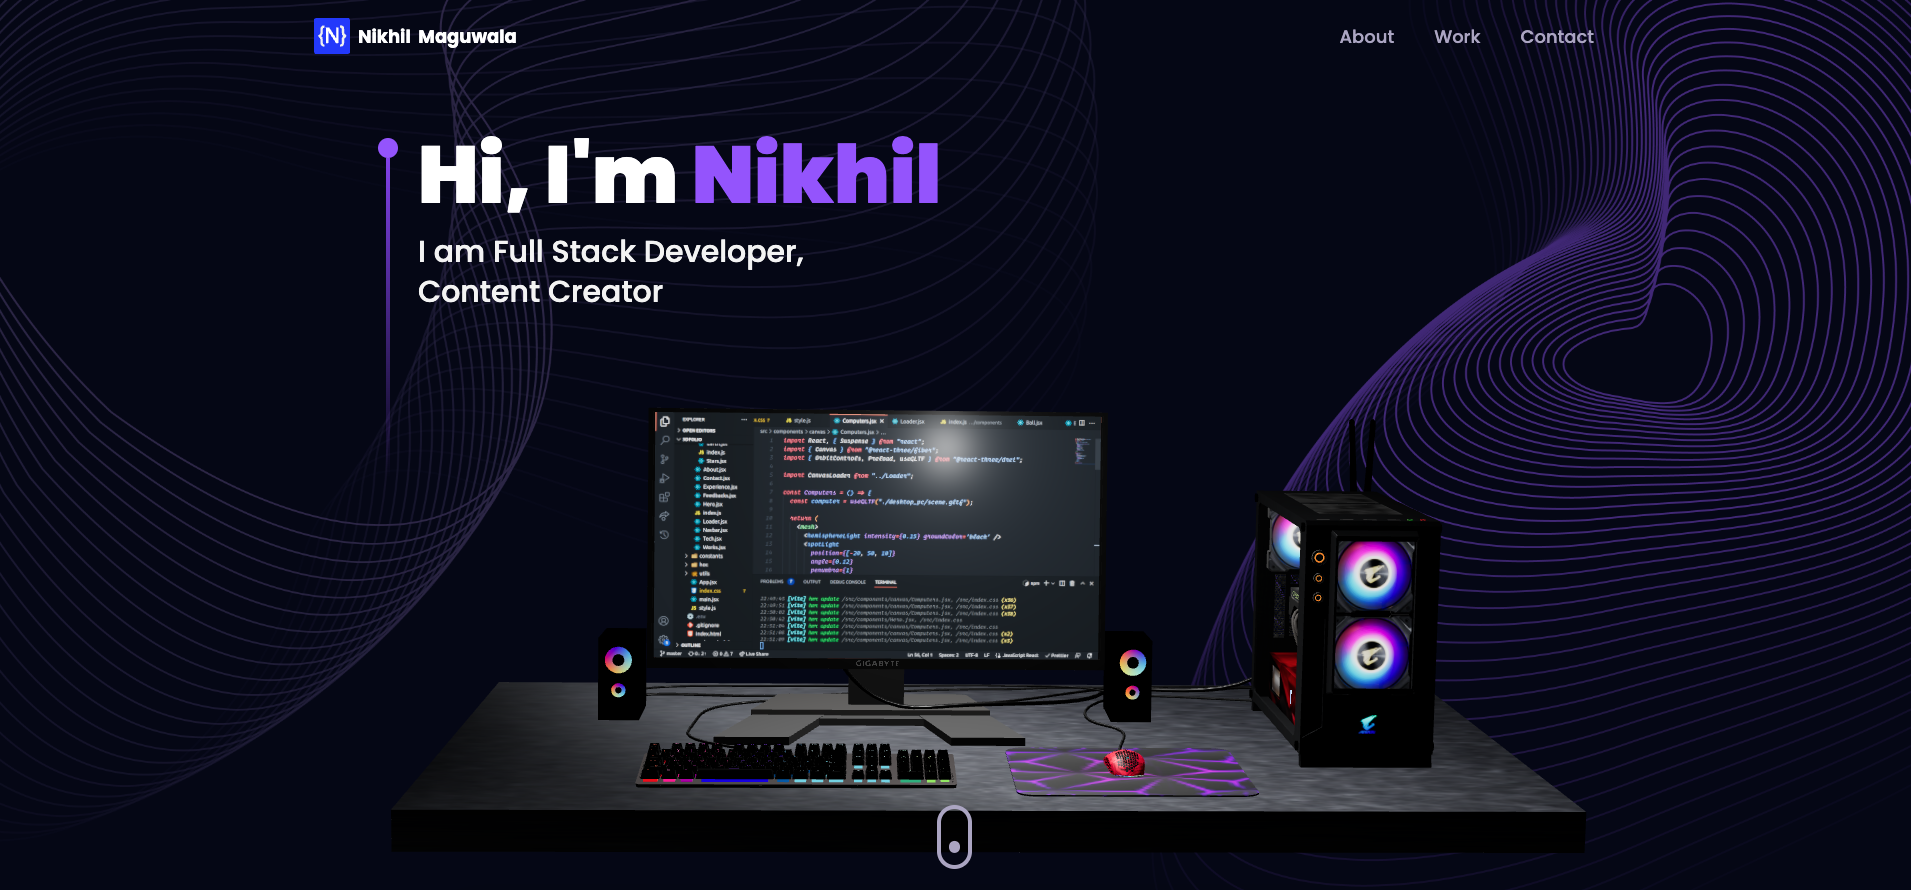
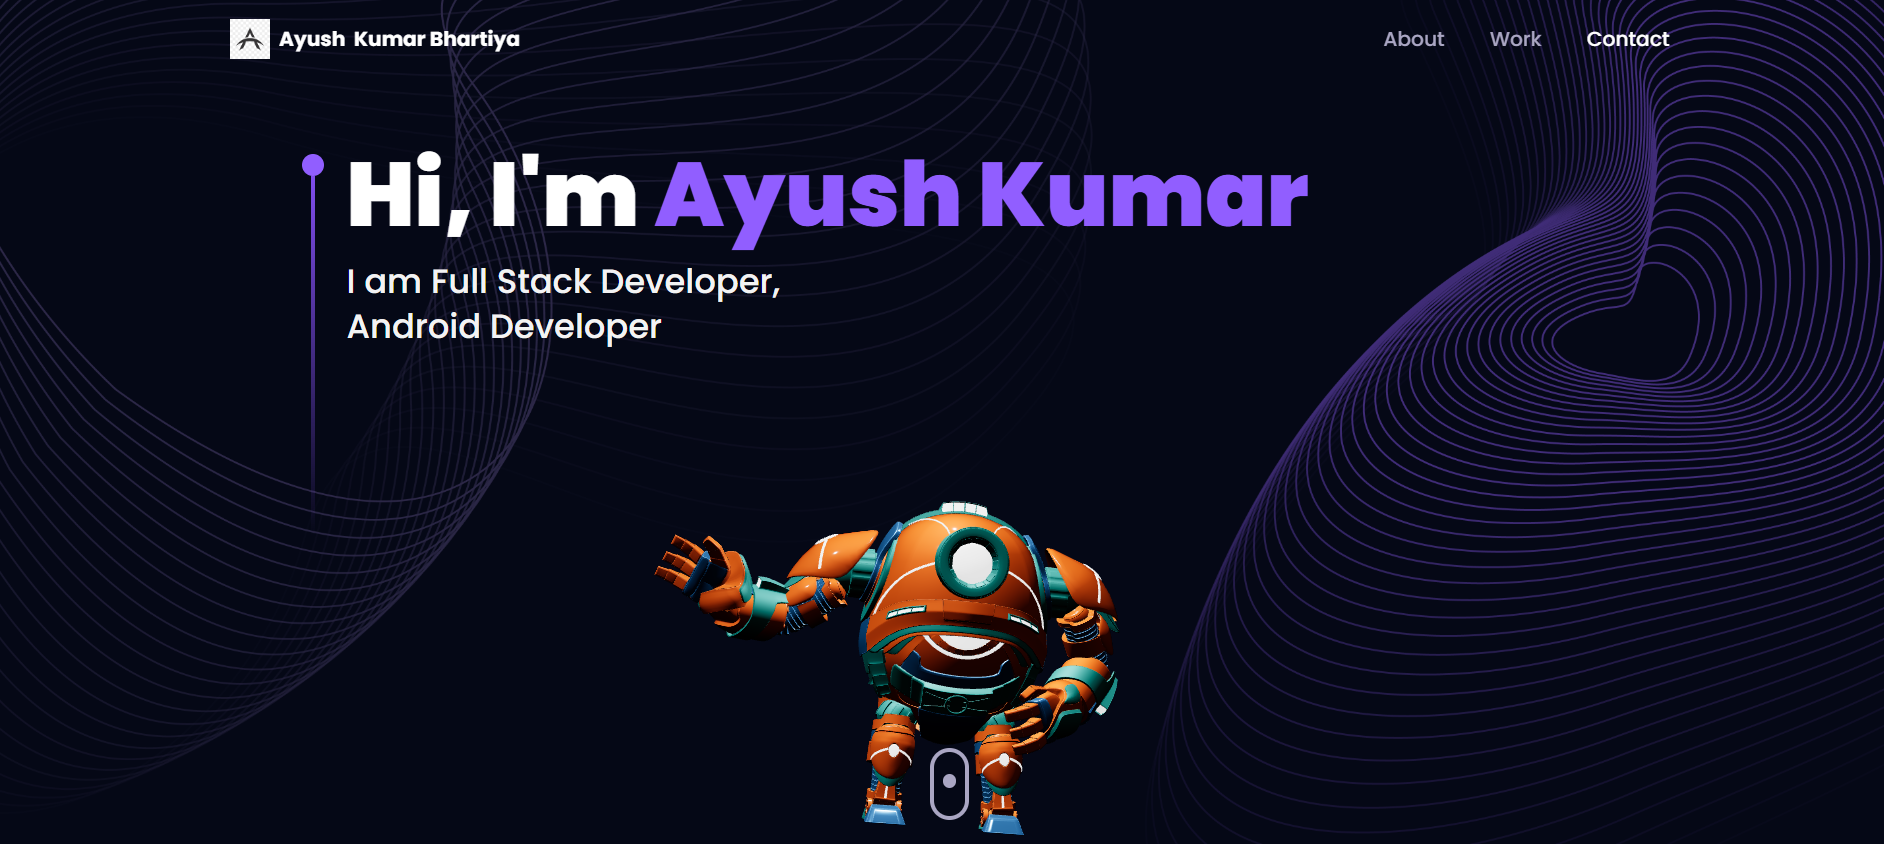
latest chane

diff --git a/src/assets/index.js b/src/assets/index.js
@@ -28,17 +28,8 @@ import jenkins from "./tech/jenkins.svg";
 import python from "./tech/python.svg";
 import flask from "./tech/flask.svg";
 
-import geeks from "./company/geeks.png";
-import abaut from "./company/abaut.png";
-import lanet from "./company/lanet.png";
-import gps from "./company/gps.png";
 
-import carrent from "./carrent.png";
-import jobit from "./jobit.png";
-import tripguide from "./tripguide.png";
-import spplstm from "./spplstm.png";
-import geeksacademy from "./geeksacademy.png";
-import icr from "./icr.png";
+
 
 export {
   logo,
@@ -62,20 +53,9 @@ export {
   tailwind,
   typescript,
   threejs,
-  carrent,
-  jobit,
-  tripguide,
-    abaut,
-    lanet,
-    gps,
-    geeks,
     angular,
     chatgpt,
     jenkins,
     python,
     flask,
-    spplstm,
-  geeksacademy,
-    icr,
-  nlogo
 };

diff --git a/src/components/canvas/Robot.jsx b/src/components/canvas/Robot.jsx
@@ -31,8 +31,8 @@ const Robot = ({ isMobile }) => {
       <primitive
         object={robot.scene}
         scale={isMobile ? 0.5 : 0.75}
-        position={isMobile ? [0, 0, -0] : [0, -2.05, 0]}
-        rotation={[-0.1, -0.1, -0.1]}
+        position={isMobile ? [0, 3, -0] : [0, -2.05, 0]}
+        rotation={[0, 1.4, 0]}
       />
     </mesh>
   );

diff --git a/src/constants/index.js b/src/constants/index.js
@@ -12,10 +12,7 @@ import {
   nodejs,
   mongodb,
   docker,
-  carrent,
-  jobit,
-  tripguide,
-  threejs, gps, angular, flask, python, chatgpt, spplstm, geeksacademy, icr,
+  threejs, chatgpt
 } from "../assets";
 import nuren_ai from "../assets/company/nuren_ai.jpeg"
 import agbiz from "../assets/company/agbiz.jpeg"

diff --git a/src/components/Hero.jsx b/src/components/Hero.jsx
@@ -1,7 +1,6 @@
 import { motion } from "framer-motion";
 
 import { styles } from "../style.js";
-import { ComputersCanvas } from "./canvas";
 import RobotCanvas from "./canvas/Robot.jsx";
 
 const Hero = () => {

diff --git a/README.md b/README.md
@@ -1,4 +1,4 @@
-# A Nikhil Maguwala 3D Portfolio
+# A Ayush Kumar's 3D Portfolio
 
 <div align="center">
 
